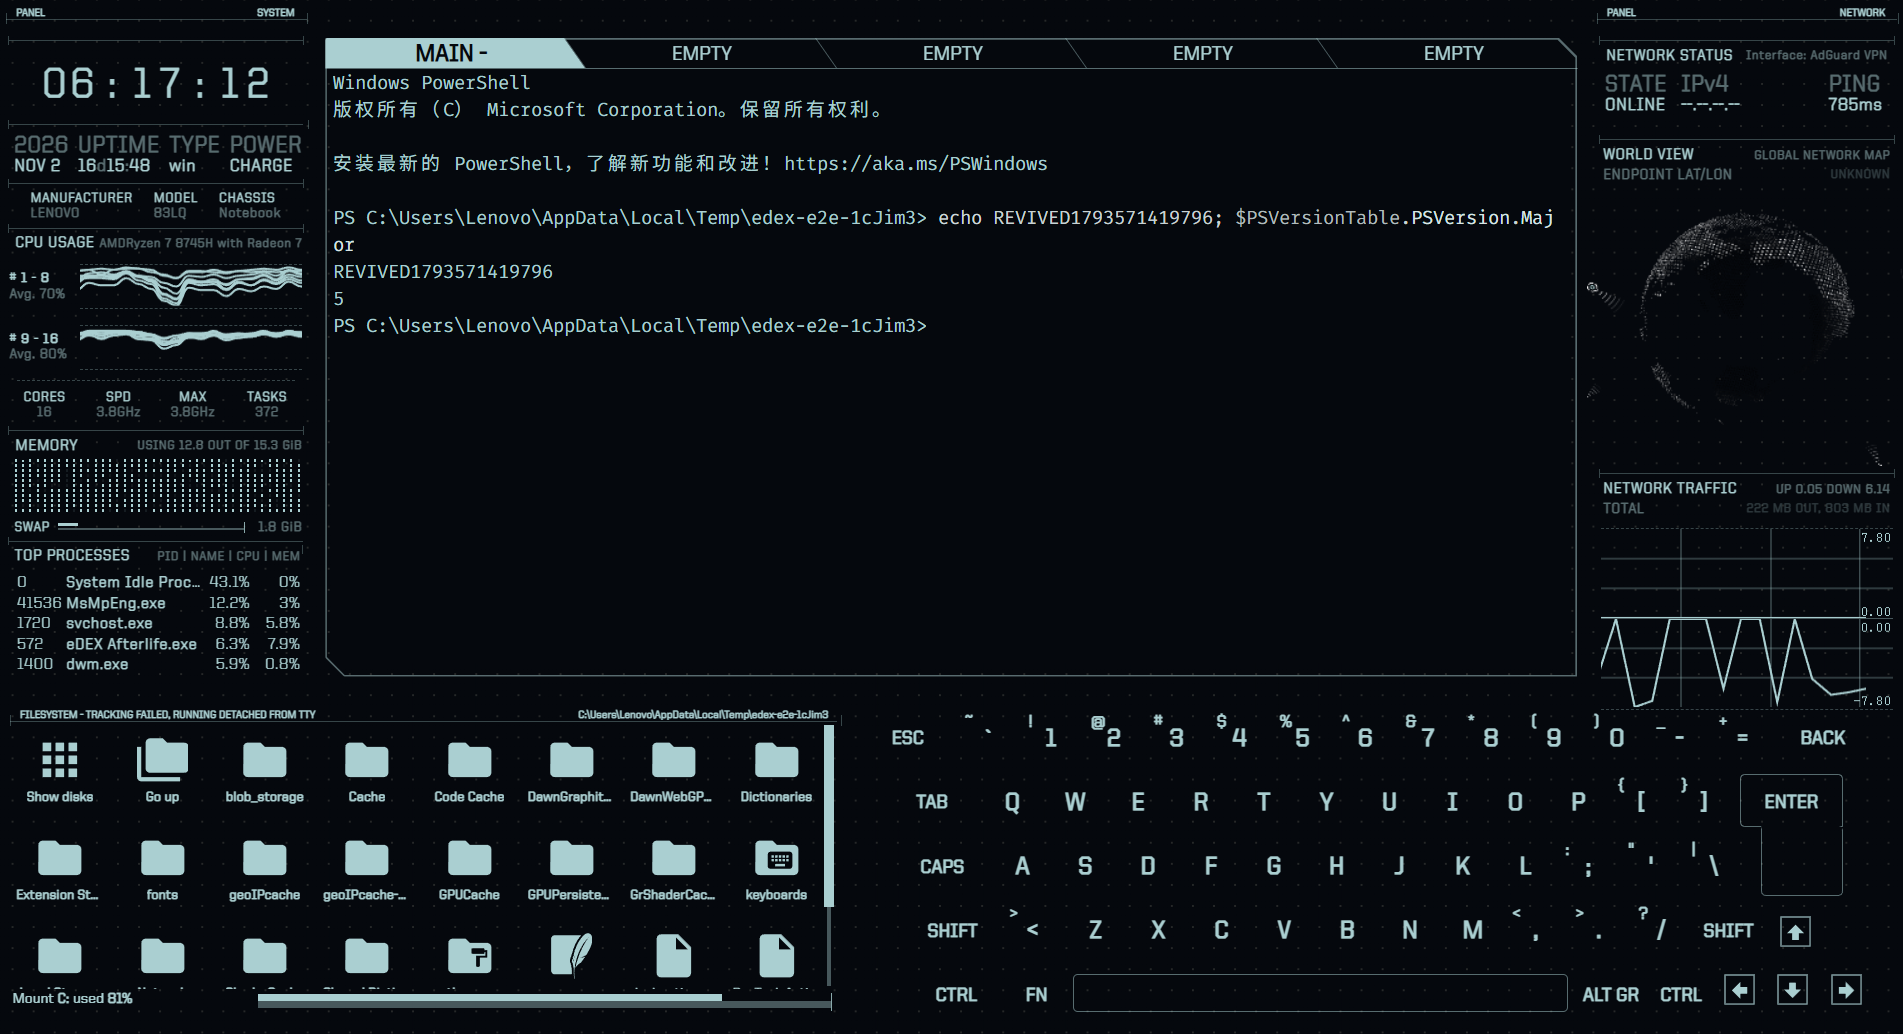
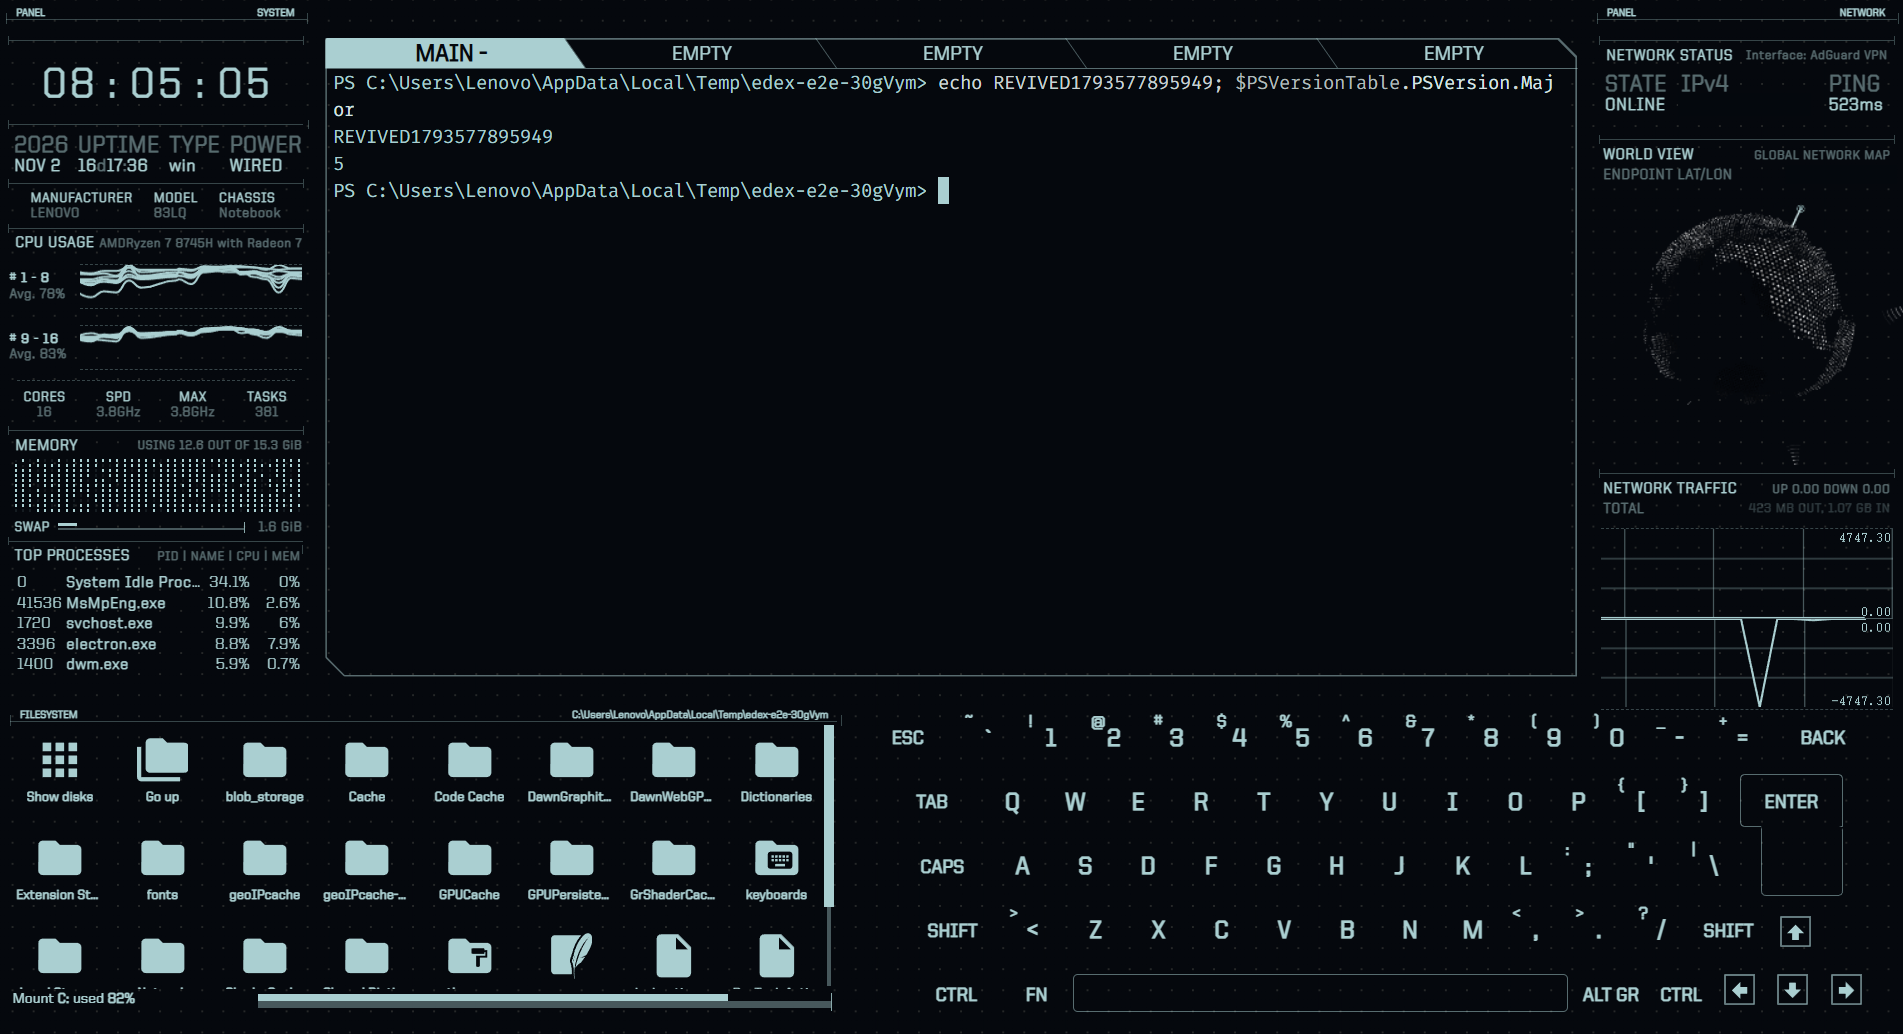
Track the shell directory on Windows and fix non-ASCII input
Windows can't read another process' working directory, so PowerShell and
cmd now report it through an OSC 9;9 sequence on each prompt. The file
browser follows it per tab, including paths with spaces or Chinese.

Replace the readonly helper textarea, which dropped non-ASCII text, with
inputmode="none" on touch devices.

diff --git a/src/classes/terminal.class.js b/src/classes/terminal.class.js
@@ -147,7 +147,10 @@ class Terminal {
                 return true;
             });
             // Prevent soft-keyboard on touch devices #733
-            document.querySelectorAll('.xterm-helper-textarea').forEach(textarea => textarea.setAttribute('readonly', 'readonly'))
+            // inputmode rather than readonly, which also swallows IME and other non-ASCII input
+            if (navigator.maxTouchPoints > 0) {
+                document.querySelectorAll('.xterm-helper-textarea').forEach(textarea => textarea.setAttribute('inputmode', 'none'));
+            }
             this.term.focus();
 
             this.Ipc.send("terminal_channel-"+this.port, "Renderer startup");
@@ -340,9 +343,64 @@ class Terminal {
                                 }
                             });
                             break;
+                        case "Windows_NT":
+                            if (this._shellReportsCwd) {
+                                resolve(this._reportedCwd || opts.cwd);
+                            } else {
+                                reject("Unsupported shell");
+                            }
+                            break;
                         default:
                             reject("Unsupported OS");
                     }
+                });
+            };
+            // Windows can't read another process' cwd, so have the shell announce it on each prompt
+            this._shellReportsCwd = false;
+            this._reportedCwd = null;
+            this._setupCwdReporting = (shell, params, env) => {
+                if (process.platform !== "win32" || params.length > 0) return {params, env};
+
+                switch(require("path").basename(shell).toLowerCase()) {
+                    case "powershell.exe":
+                    case "pwsh.exe":
+                        this._shellReportsCwd = true;
+                        return {
+                            env,
+                            params: ["-NoExit", "-EncodedCommand", Buffer.from([
+                                '$global:__edexPrompt = $function:prompt',
+                                'function global:prompt {',
+                                '    $prompt = & $global:__edexPrompt',
+                                '    $cwd = (Get-Location -PSProvider FileSystem).ProviderPath',
+                                '    "$([char]27)]9;9;`"$cwd`"$([char]7)$prompt"',
+                                '}'
+                            ].join("\n"), "utf16le").toString("base64")]
+                        };
+                    case "cmd.exe":
+                        this._shellReportsCwd = true;
+                        return {
+                            params,
+                            env: Object.assign({}, env, {PROMPT: '$E]9;9;"$P"$E\x5c'+(env.PROMPT || "$P$G")})
+                        };
+                    default:
+                        return {params, env};
+                }
+            };
+            this._watchCwdReports = tty => {
+                const report = /\x1b\]9;9;"([^"\x07\x1b]*)"(?:\x07|\x1b\x5c)/g;
+                let pending = "";
+
+                tty.onData(data => {
+                    let end = 0;
+                    let match;
+                    pending = (pending+data).slice(-4096);
+                    report.lastIndex = 0;
+                    while ((match = report.exec(pending)) !== null) {
+                        this._reportedCwd = match[1];
+                        this._nextTickUpdateTtyCWD = true;
+                        end = report.lastIndex;
+                    }
+                    pending = pending.slice(end);
                 });
             };
             this._getTtyProcess = tty => {
@@ -409,13 +467,19 @@ class Terminal {
                 }
             }, 1000);
 
-            this.tty = this.Pty.spawn(opts.shell || "bash", (opts.params.length > 0 ? opts.params : (process.platform === "win32" ? [] : ["--login"])), {
+            let spawnOpts = this._setupCwdReporting(opts.shell || "bash", (opts.params.length > 0 ? opts.params : (process.platform === "win32" ? [] : ["--login"])), opts.env || process.env);
+
+            this.tty = this.Pty.spawn(opts.shell || "bash", spawnOpts.params, {
                 name: opts.env.TERM || "xterm-256color",
                 cols: 80,
                 rows: 24,
                 cwd: opts.cwd || process.env.PWD,
-                env: opts.env || process.env
+                env: spawnOpts.env
             });
+
+            if (this._shellReportsCwd) {
+                this._watchCwdReports(this.tty);
+            }
 
             this.tty.onExit((code, signal) => {
                 this._closed = true;

diff --git a/test/e2e.js b/test/e2e.js
@@ -6,7 +6,7 @@ const fs = require("fs"), path = require("path"), os = require("os"), http = req
 const EDEX = path.join(__dirname, ".."), OUT = process.env.E2E_OUT || fs.mkdtempSync(path.join(os.tmpdir(), "edex-e2e-out-")), PORT = 3900;
 const tmp = fs.mkdtempSync(path.join(os.tmpdir(), "edex-e2e-"));
 fs.writeFileSync(path.join(tmp, "settings.json"), JSON.stringify({
-    shell: "powershell.exe", shellArgs: "", cwd: tmp, keyboard: "en-US", theme: "tron", termFontSize: 15,
+    shell: process.env.E2E_SHELL || "powershell.exe", shellArgs: "", cwd: tmp, keyboard: "en-US", theme: "tron", termFontSize: 15,
     audio: false, audioVolume: 0, disableFeedbackAudio: true, clockHours: 24, pingAddr: "1.1.1.1", port: PORT,
     nointro: true, nocursor: false, forceFullscreen: false, allowWindowed: true, excludeThreadsFromToplist: true,
     hideDotfiles: false, fsListView: false, experimentalGlobeFeatures: false, experimentalFeatures: false,
@@ -80,6 +80,30 @@ function wsAttempt(url, headers) {
     const buf2 = await ev(() => { const b = window.term[0].term.buffer.active; let s = ""; for (let i = 0; i < b.length; i++) { const l = b.getLine(i); if (l) s += l.translateToString(true) + "\n"; } return s; });
     check("keyboard input reaches the shell", (buf2.match(new RegExp(typed, "g")) || []).length >= 2);
 
+    // Text that doesn't map to plain key events, which is how IMEs commit Chinese
+    await win.keyboard.type("echo 中文输入", {delay: 10});
+    await win.keyboard.press("Enter");
+    await wait(2500);
+    const buf3 = await ev(() => { const b = window.term[0].term.buffer.active; let s = ""; for (let i = 0; i < b.length; i++) { const l = b.getLine(i); if (l) s += l.translateToString(true) + String.fromCharCode(10); } return s; });
+    check("non-ASCII input reaches the shell", (buf3.match(/中文输入/g) || []).length >= 2);
+
+    // The file browser follows the shell, including non-ASCII paths with spaces
+    const cwdTarget = path.join(tmp, "edex 中文 test");
+    fs.mkdirSync(cwdTarget);
+    fs.writeFileSync(path.join(cwdTarget, "cwd-marker.txt"), "");
+    await ev(() => window.term[0].term.focus());
+    await win.keyboard.type(`cd "${cwdTarget}"`, {delay: 10});
+    await win.keyboard.press("Enter");
+    await wait(5000);
+    const fsState = await ev(() => JSON.stringify({
+        path: window.fsDisp.cwd_path, tracking: !window.fsDisp._noTracking,
+        title: document.querySelector("section#filesystem > h3.title > p:first-of-type").innerText,
+        marker: !!Array.from(document.querySelectorAll("#fs_disp_container h3")).find(e => e.innerText.includes("cwd-marker"))
+    }));
+    const fsInfo = JSON.parse(fsState);
+    check("file browser tracks the shell directory", fsInfo.tracking && fsInfo.path === cwdTarget && !/TRACKING FAILED/.test(fsInfo.title), fsState);
+    check("file browser lists the new directory", fsInfo.marker);
+
     // Attack: CVE-2023-30856 style connections
     const url = `ws://127.0.0.1:${PORT}/`;
     check("attack: evil origin, no token rejected", (await wsAttempt(url, {Origin: "https://evil.example"})) === "HTTP 401");
@@ -95,6 +119,16 @@ function wsAttempt(url, headers) {
     await wait(5000);
     const tab = await ev(() => !!(window.term[1] && window.term[1].socket && window.term[1].socket.readyState === 1));
     check("second terminal tab connects", tab);
+
+    // Each tab keeps its own directory, and the file browser follows the active one
+    const tabTarget = path.join(tmp, "second tab dir");
+    fs.mkdirSync(tabTarget);
+    await ev(p => window.term[1].writelr(`cd "${p}"`), tabTarget);
+    await wait(4000);
+    check("file browser follows the active tab", (await ev(() => window.fsDisp.cwd_path)) === tabTarget);
+    await ev(() => window.focusShellTab(0));
+    await wait(3000);
+    check("file browser returns with the first tab", (await ev(() => window.fsDisp.cwd_path)) === cwdTarget);
 
     // Attack an idle terminal: no client attached, so only origin and token checks can reject
     const reply = await ev(`() => new Promise(r => { const {ipcRenderer: i} = require("electron"); i.once("ttyspawn-reply", (e, m) => r(m)); i.send("ttyspawn", "true"); })`);

diff --git a/README.md b/README.md
@@ -20,6 +20,8 @@ eDEX Afterlife keeps the original interface and brings it back to life:
 - Runs on Electron 45, with `@xterm/xterm` 6 and `node-pty` 1.1.
 - Fixes CVE-2023-30856: the terminal WebSocket only listens on `127.0.0.1`, and only accepts the app's own origin with a per-launch random token.
 - Installs on Windows without Visual Studio or Python.
+- **Tracks the terminal's directory on Windows.** The file browser now follows `cd` in PowerShell and cmd, in every tab, instead of showing `TRACKING FAILED`.
+- **Accepts non-ASCII input.** Text committed outside plain key events, such as Chinese, is no longer dropped by the terminal.
 - Updates vulnerable dependencies and fixes the crashes that appeared on modern runtimes.
 
 See [REVIVAL.md](REVIVAL.md) for the full change list and test results.
@@ -39,7 +41,8 @@ Known limitations:
 - The installer is not code-signed, so Windows SmartScreen may show a warning.
 - The globe may show `UNKNOWN` when the GeoIP database or external IP lookup is unavailable.
 - If a VPN is active, automatic interface detection can show `OFFLINE`. Set `iface` in the settings to your active network interface.
-- Current directory tracking is not available on Windows, so the file browser shows `TRACKING FAILED`.
+- On Windows, directory tracking supports PowerShell and cmd when `shellArgs` is empty. Other shells, such as Git Bash, fall back to `TRACKING FAILED`.
+- Chinese input passes automated tests, but hasn't been tested by hand with a real IME yet.
 - `pdfjs-dist` is still on 2.11.338. PDF evaluation is disabled as a mitigation.
 
 ## Install

diff --git a/README.zh-CN.md b/README.zh-CN.md
@@ -20,6 +20,8 @@ eDEX Afterlife 保留原来的界面，让它重新运行起来：
 - 运行在 Electron 45 上，使用 `@xterm/xterm` 6 和 `node-pty` 1.1。
 - 修复 CVE-2023-30856：终端 WebSocket 只监听 `127.0.0.1`，只接受应用自身的来源和每次启动随机生成的令牌。
 - 在 Windows 上安装不再需要 Visual Studio 或 Python。
+- **在 Windows 上跟踪终端目录。** 文件面板现在会在每个标签页中跟随 PowerShell 和 cmd 的 `cd`，不再显示 `TRACKING FAILED`。
+- **支持非 ASCII 输入。** 中文这类不是由普通按键直接产生的文本，不会再被终端吞掉。
 - 升级有漏洞的依赖，并修复在新版运行环境中出现的崩溃。
 
 完整的改动和测试结果请看 [REVIVAL.md](REVIVAL.md)。
@@ -39,7 +41,8 @@ eDEX Afterlife 保留原来的界面，让它重新运行起来：
 - 安装包没有代码签名，Windows SmartScreen 可能会显示警告。
 - GeoIP 数据库或外网 IP 查询不可用时，地球仪可能显示 `UNKNOWN`。
 - 开启 VPN 时，自动选择网卡可能导致显示 `OFFLINE`。可以在设置中把 `iface` 改成实际使用的网卡。
-- Windows 上无法跟踪当前目录，所以文件面板会显示 `TRACKING FAILED`。
+- 在 Windows 上，目录跟踪支持 `shellArgs` 为空时的 PowerShell 和 cmd。Git Bash 等其他 Shell 仍会回退到 `TRACKING FAILED`。
+- 中文输入已通过自动测试，但还没有用真实输入法人工验证。
 - `pdfjs-dist` 仍是 2.11.338，目前通过关闭 PDF 求值来缓解风险。
 
 ## 安装
